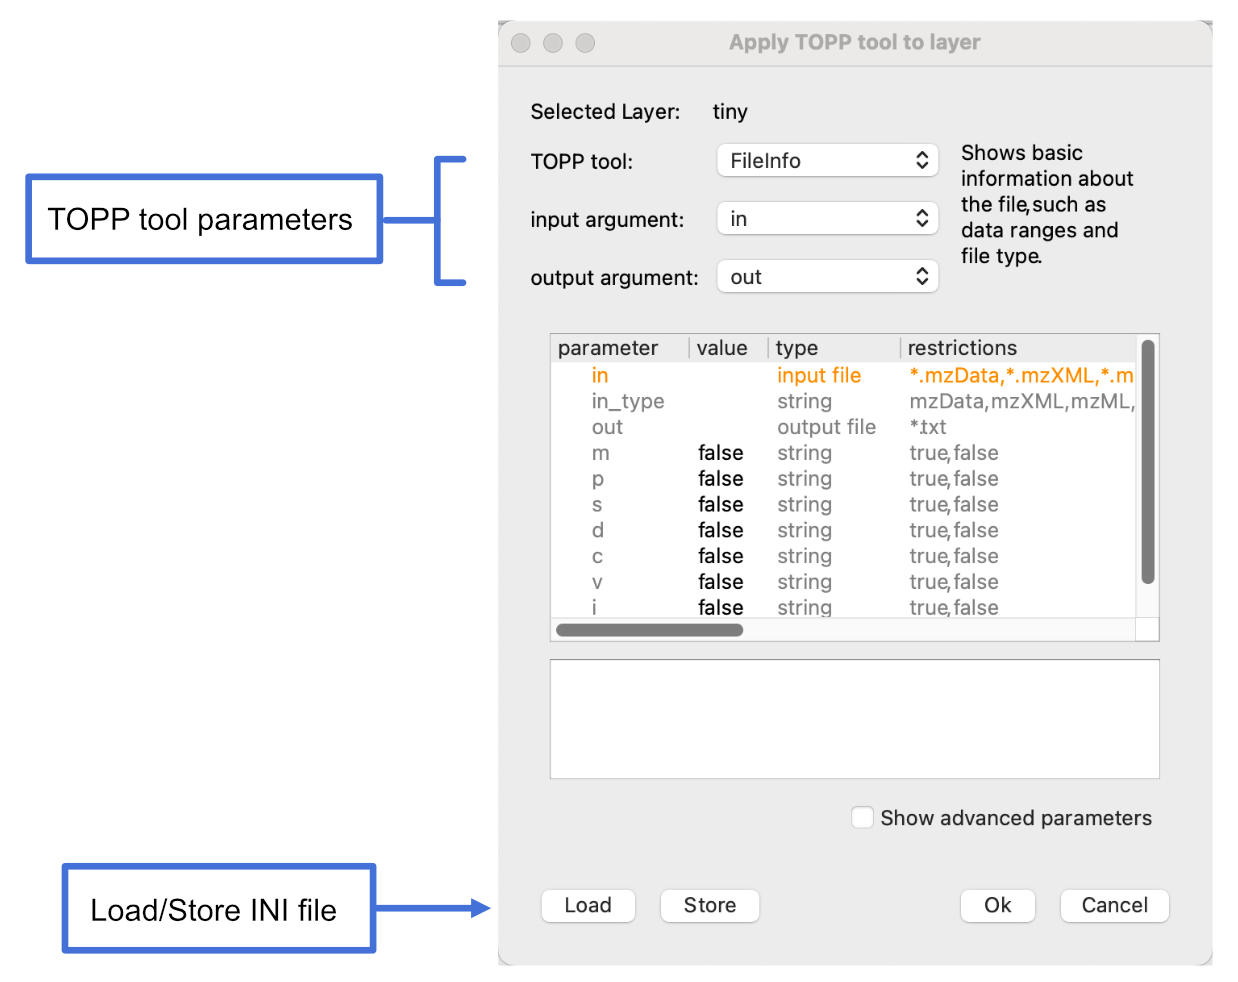
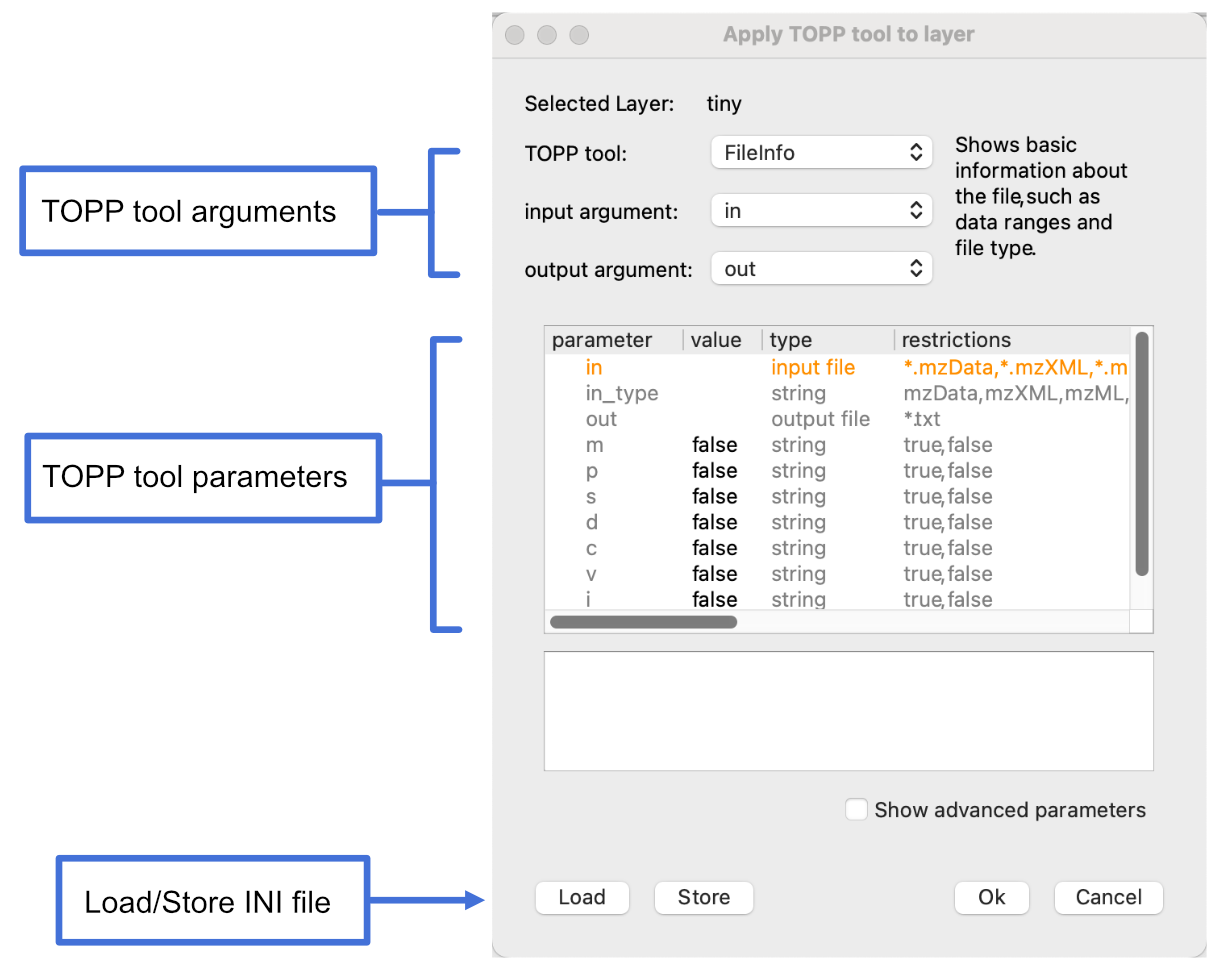
added TOPPView tutorial

diff --git a/docs/openms-applications-and-tools/visualize-with-openms.md b/docs/openms-applications-and-tools/visualize-with-openms.md
@@ -1,2 +1,102 @@
-Visualize with OpenMS
-=====================
+TOPPView: Visualize with OpenMS
+===============================
+
+## Introduction
+
+{term}`TOPPView` is a graphical application for inspecting and visualizing {term}`MS` and {term}`HPLC-MS` data. It can be used to inspect files in {term}`mzML`, {term}`mzData`, {term}`mzXML` and several other text-based file formats.
+
+In each view, several datasets can be displayed simultaneously using the layer concept. This allows visual comparison of several
+datasets as well as displaying input data and output data of an algorithm together.
+
+{term}`TOPPView` is intended for visual inspection of the data by experimentalists as well as for analysis software by
+developers.
+
+## User interface
+
+The following image illustrates different components of TOPPView's user interface.
+
+![toppview user interface](../images/tutorials/toppview/user-interface.png)
+
+Components include:
+
+- **Display modes and options**
+- A **Viewer** that displays visual data.
+- **Layers**
+
+  You can visualize several datasets by creating **layers**. In the **Layers window** (dock window in the upper right
+  corner), layers can be hidden and shown using the check box in front of each layer name.
+- **Data filtering window**
+- **Log window** to view textual output of applying TOPP tools to data.
+- **Views windows** that show tabulated information about the dataset.
+
+## Getting Started
+
+### Import a file
+
+To import data into TOPPView:
+
+1. Go to **File** > **Open file**.
+2. Choose a file from the file importer and click **Open**.
+3. Select options from the following panel and click **Ok**:
+
+  ![file import options](../images/tutorials/toppview/file-import-options.png)
+
+  You can choose to open the new dataset as a **new window** or **new layer**. Choosing **new window** will open a new tab. If you are planning on comparing multiple datasets and want to view them all at once, choose **new layer**. We recommend you read our [Manipulating layers](visualize-with-openms.md#manipulating-layers) section.
+
+  TOPPView automatically selects the **Map view** depending on the data you have imported.
+
+  <TODO: explain display options>
+
+You should be able to see your data in the **Viewer**.
+
+### Apply TOPP tool
+
+OpenMS provides a number of TOPP tools that can be applied to your data.
+
+To apply a TOPP tool to your dataset:
+
+1. Select a layer in the **Layers window**. The selected layer will be highlighted blue.
+
+  ![display selected layer](../images/tutorials/toppview/layers-window.png)
+
+2. Go to **Tools** > **Apply TOPP tool to whole layer**. This will open a panel to select and configure your TOPP tool.
+
+3. Select a **TOPP tool** from the dropdown menu. A description of the TOPP tool will be displayed on the right. You may have to also specify the **input argument** as well though TOPPView might automatically select this option for you. To save the output to a file, specify the **output argument**.
+
+  ![display selected layer](../images/tutorials/toppview/apply-topp-tool-to-layer.png)
+
+4. Specify the TOPP tool parameters by either:
+   <ol type="a">
+    <li>Loading an INI file by clicking <b>Load</b> and selecting an INI File from the file importer.</li>
+    <img src="/docs/images/tutorials/toppview/topp-tool-arguments-and-description.png" alt="choose TOPP tool arguments"></img>
+    <li>Editing the parameters shown in the table and then saving the INI file. To edit a parameter, double click a row in the table and enter a value or choose from the options available. The modified value will be highlighted yellow. To save the parameters, click <b>Store</b> and enter a file name for the INI file.</li>
+    <img src="/docs/images/tutorials/toppview/topp-tool-parameters.png" alt="edit parameters and save INI file or load pre-existing INI file"></img>
+   </ol>
+
+4. Click **Ok**. You will be prompted to load the new     dataset as a **new window** or a **new layer**. Choose an option and click **Ok**.
+
+  ![data import options](../images/tutorials/toppview/data-import-options.png)
+
+5. If you chose to load the data in a new window, a new tab will appear. To view that data, select the tab. If you chose to load the data as a new layer, the data will be visualized in the **Viewer**. You can also see the new layer wihout a name in the **Layers window**.
+
+  ![layer loaded in Viewer](../images/tutorials/toppview/layer-loaded-in-viewer.png)
+
+6. (Optional) If you did choose to import the data as a new layer, give the new layer a name. To do this, right-click the layer in the **Layers window** and select **Rename**. Enter a name and click OK.  
+
+### Filter data
+
+You may only want to see some data from your dataset and hide the rest. OpenMS allows you to filter data based on the following fields: **Intensity**, **Quality**, **Charge**, **Size** and **Meta data**.
+
+To filter your data:
+
+1. Open the **Data filters window** by clicking the tab at the bottom of the screen.
+
+  ![select data filters window](../images/tutorials/toppview/select-data-filters-window.png)
+
+2. Add a filter to the **Data filters window** by right-clicking the window and then selecting **Add filter** from the context menu.
+
+3. Select a field, select an operation and enter a value. For example, to exclude all peaks with an intensity of less than 6999, set **field** to **Intensity**, **operation** to **=>** and set the value to 7000. Click **Ok** on the panel to apply the changes.
+
+  ![filtering options](../images/tutorials/toppview/filtering-options.png) 
+
+4. You should see only see data that satisfies the specified criteria.
